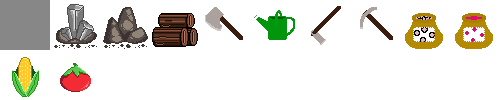
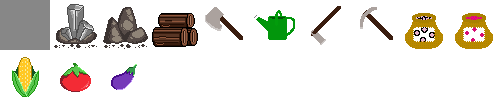
Half way adding eggplant

Changed region(s): [[0.21, 0.66, 0.27, 0.9]]

diff --git a/js/Items.js b/js/Items.js
@@ -15,7 +15,8 @@ var ItemCode = Object.freeze({
     SEED_CORN: 8,
     SEED_TOMATO: 9,
     CROP_CORN: 10,
-    CROP_TOMATO: 11
+    CROP_TOMATO: 11,
+    CROP_EGGPLANT: 12,
 });
 
 // Item class
@@ -48,6 +49,9 @@ function Item(itemName, itemType, energyCost) {
         case ItemCode.SEED_TOMATO:
             this.thing = new Seed(energyCost, ItemCode.SEED_TOMATO);
             break;
+        case ItemCode.SEED_EGGPLANT:
+            this.thing = new Seed(energyCost, ItemCode.SEED_TOMATO);
+            break;
     }
 
     return this;
@@ -67,6 +71,7 @@ function Items() {
     this.seedTomato = new Item("Tomato Seeds", ItemCode.SEED_TOMATO, 5);
     this.cropCorn = new Item("Corn", ItemCode.CROP_CORN);
     this.cropTomato = new Item("Tomato", ItemCode.CROP_TOMATO);
+    this.cropEggplant = new Item("Eggplant", ItemCode.CROP_EGGPLANT);
 }
 
 // ----------------

diff --git a/js/Plant.js b/js/Plant.js
@@ -40,6 +40,15 @@ var Plants = [
         regrows: true,
         regrowStages: 6
     },
+    {
+        tileTypeSeed: TILE_EGGPLANT_SEED,
+        tileTypeStages: [TILE_EGGPLANT_SEEDLING, TILE_EGGPLANT_MEDIUM, TILE_EGGPLANT_FULLY_GROWN, TILE_EGGPLANT_RIPE, TILE_EGGPLANT_HARVESTED],
+        daysPerStage: 2,
+        daysCanLiveWithoutWater: 3,
+        ripeStage: 4,
+        regrows: true,
+        regrowStages: 6
+    },
 ];
 
 function getPlantsSaveState() {
@@ -147,6 +156,9 @@ function Plant(mapIndex, plantTypeSeed) {
                 break;
             case TILE_TOMATO_SEED:
                 player.inventory.add(items.cropTomato.type, 5);
+                break;
+            case TILE_EGGPLANT_SEED:
+                player.inventory.add(items.cropEggplant.type, 4);
                 break;
         }
 
